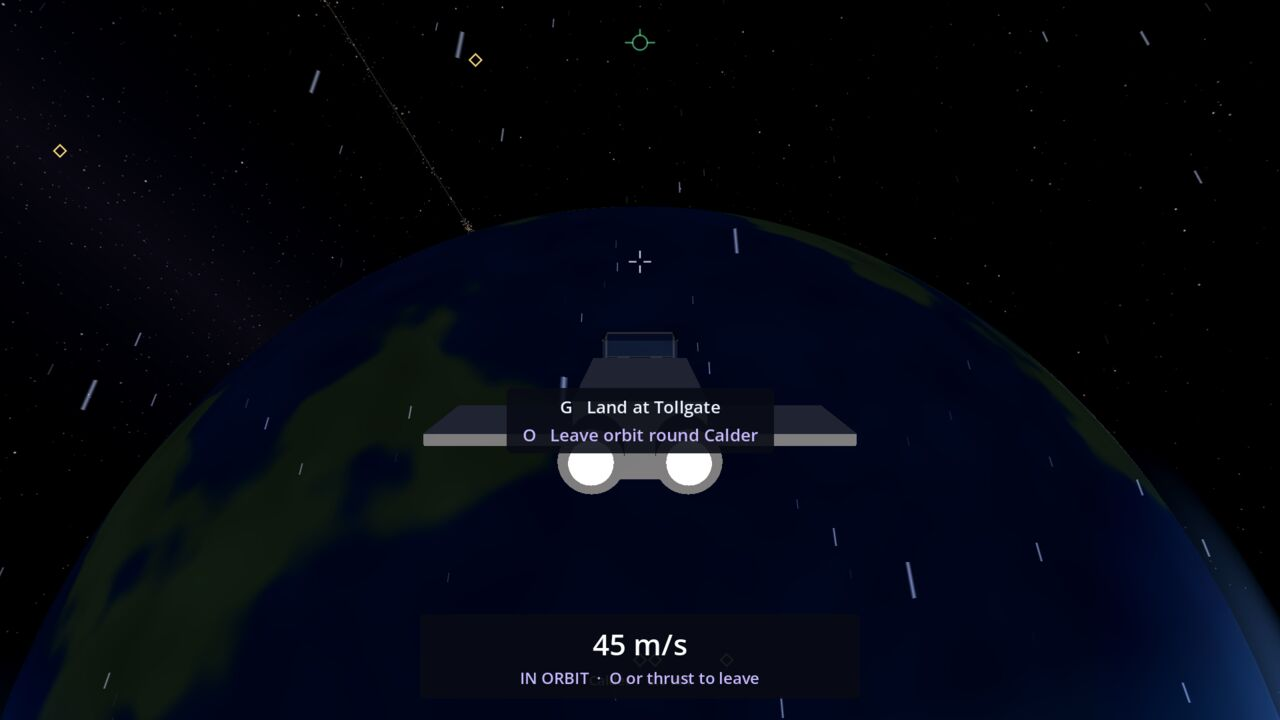
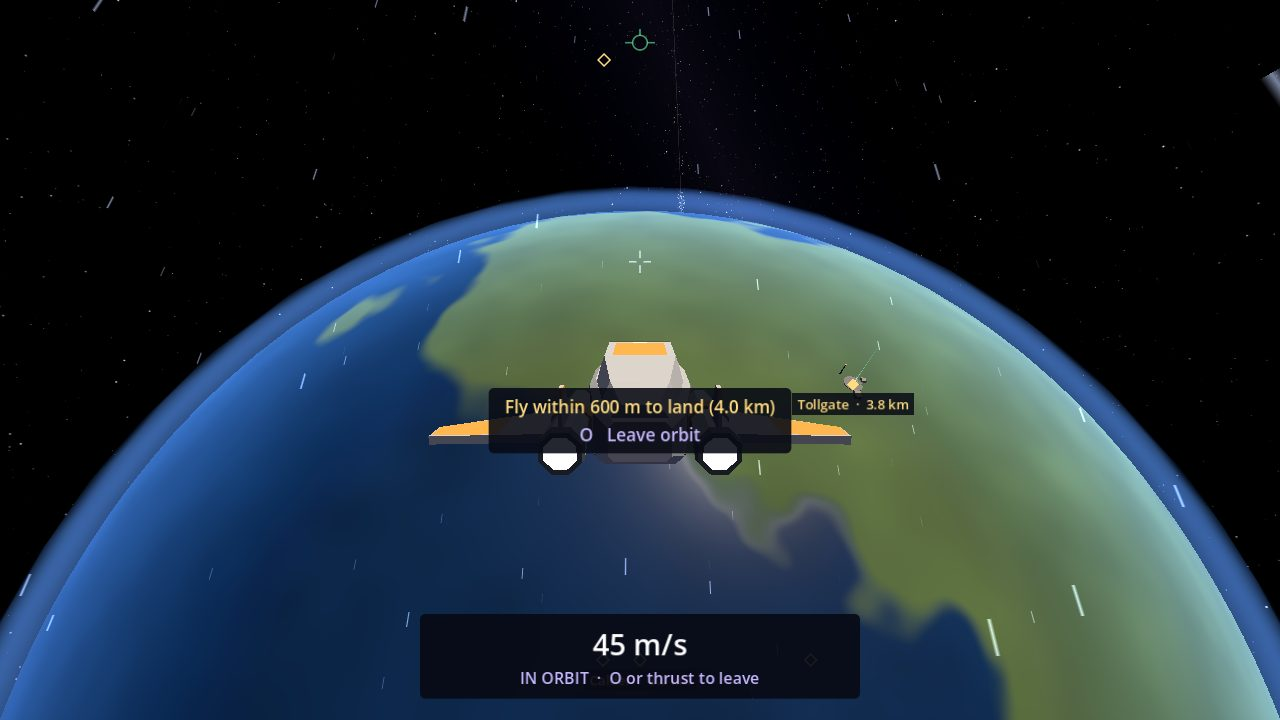
Tidy-up before the pause: new repo links, design doc ticks, fresh wiki pictures
- Every link to the old repository name (project-praesepe) now uses praesepe: design doc, README, RELEASING, wiki
  pages, the installer's publisher, support and update links, the wiki's Patch Notes links and a Blender script note.
- DESIGN.md's first playable list ticks the nine items already built.
- The Hauler's ship card (and two code comments) no longer say a greybox stands in for it.
- Fourteen wiki pictures retaken with the placeholder ship and cockpit and today's short prompts (several still showed
  the greybox, "G Land at Tollgate" from orbit and long cruise prompts); the unused landed-chase picture is gone.
- A changelog note for the two changes a player can see.

Claude-Session: https://claude.ai/code/session_01JjsDj2AAULPNj4PryiKDMn

diff --git a/tools/wiki.py b/tools/wiki.py
@@ -160,7 +160,7 @@ def patch_notes() -> str:
     parts = [
         "# Patch Notes",
         "What changed in each version of Project Praesepe, newest first. Downloads are on the "
-        "[Releases page](https://github.com/ggbillyjoe3526/project-praesepe/releases). "
+        "[Releases page](https://github.com/ggbillyjoe3526/praesepe/releases). "
         "What's planned next is on the [Roadmap](Roadmap).",
         "## Coming in the next update",
         "Already in the development build and on its way in the next download:",
@@ -180,7 +180,7 @@ def stamp() -> str:
     version = m.group(1) if m else "unknown version"
     log = subprocess.run(["git", "log", "-1", "--format=%h %cs"], cwd=ROOT, capture_output=True, text=True)
     commit, _, day = log.stdout.strip().partition(" ") if log.returncode == 0 else ("", "", "")
-    where = f" from commit [{commit}](https://github.com/ggbillyjoe3526/project-praesepe/commit/{commit}), {day}" if commit else ""
+    where = f" from commit [{commit}](https://github.com/ggbillyjoe3526/praesepe/commit/{commit}), {day}" if commit else ""
     return f"<sub>Describes the development build {version}{where}.</sub>"
 
 

diff --git a/tools/blender/export_ship.py b/tools/blender/export_ship.py
@@ -1,7 +1,7 @@
 """Exports a ship's "Exterior" and "Cockpit" collections from Blender as the glTF files the game loads.
 
 Run it inside Blender with the ship's .blend open, or from Python with Blender's `bpy` module:
-	export_ship.export("C:/path/to/project-praesepe/game/ship/models", "hauler")
+	export_ship.export("C:/path/to/praesepe/game/ship/models", "hauler")
 writes hauler_exterior.glb and hauler_cockpit.glb there. Only those two collections go out (never "Reference"),
 with modifiers applied, Y up and the nose along -Z as Godot expects, and no cameras or lights.
 Parts are joined into one mesh per material on the way out (named after the collection and the material, like Exterior_Glass), so the game draws each

diff --git a/DESIGN.md b/DESIGN.md
@@ -526,20 +526,20 @@ The goal of the first playable is to prove that flying, delivering and mining ar
 
 **In scope**
 
-- [ ] One planet with a base, one moon, one space station, one asteroid belt
-- [ ] One ship with a first-person cockpit
-- [ ] Newtonian flight with flight assist on/off and a velocity marker
-- [ ] Third-person chase camera while flying
-- [ ] Cruise drive between locations
-- [ ] Docking at the base and station
-- [ ] Seamless docking and landing: a prompt, then the ship flies itself in, with no transition or loading screen (the owner's call, 2026-10-25)
-- [ ] Parking in orbit round a planet or moon with an "Enter orbit" prompt (added by the owner, 2026-10-24)
+- [x] One planet with a base, one moon, one space station, one asteroid belt
+- [x] One ship with a first-person cockpit
+- [x] Newtonian flight with flight assist on/off and a velocity marker
+- [x] Third-person chase camera while flying
+- [x] Cruise drive between locations
+- [x] Docking at the base and station
+- [x] Seamless docking and landing: a prompt, then the ship flies itself in, with no transition or loading screen (the owner's call, 2026-10-25)
+- [x] Parking in orbit round a planet or moon with an "Enter orbit" prompt (added by the owner, 2026-10-24)
 - [ ] Contract board with two job types: delivery and asteroid mining
 - [ ] Ship mining laser for blasting asteroids
 - [ ] On-foot controller: walking into the base and mining on an asteroid's surface
 - [ ] Loan with payments at the base
 - [ ] Shop with 3–4 upgrades
-- [ ] Save and load
+- [x] Save and load
 
 **Out of scope for now:** the other two starter ships, combat, taxi, science, reputation, radio, random events, photo mode.
 
@@ -557,7 +557,7 @@ A few early decisions avoid costly rework later.
 
 ## Player wiki
 
-The GitHub wiki (<https://github.com/ggbillyjoe3526/project-praesepe/wiki>) documents the full game for players. It is
+The GitHub wiki (<https://github.com/ggbillyjoe3526/praesepe/wiki>) documents the full game for players. It is
 written for players, not developers, and kept current as the game changes.
 
 - **Home:** what the game is and what the current build lets you do.

diff --git a/README.md b/README.md
@@ -97,7 +97,7 @@ CI runs all five on every pull request (the wiki check in the Wiki workflow, whi
 | `test/unit/` | Unit tests. |
 | `tools/` | Test, changelog and wiki scripts; `blender/` builds and exports the ship models in Blender (its `README.md` says how). |
 | `addons/gut/` | The Gut test framework (tests only, never shipped). |
-| `docs/wiki/` | The player wiki, one page per file, published to the [GitHub wiki](https://github.com/ggbillyjoe3526/project-praesepe/wiki) on every merge to `main`. Its `README.md` has the conventions. |
+| `docs/wiki/` | The player wiki, one page per file, published to the [GitHub wiki](https://github.com/ggbillyjoe3526/praesepe/wiki) on every merge to `main`. Its `README.md` has the conventions. |
 | `changelog.d/` | One changelog note per pull request, gathered into `CHANGELOG.md` at release. |
 
 Saves (`savegame.json`, written on every docking and landing), settings (`settings.json`) and screenshots (`screenshots/`) go to the user folder `ProjectPraesepe` (on Windows, `%APPDATA%\ProjectPraesepe`).

diff --git a/docs/wiki/FAQ.md b/docs/wiki/FAQ.md
@@ -3,7 +3,7 @@
 ## Is there a download?
 
 Yes, for Windows (64-bit). The first one is **0.1 Dev 1**, an early development build. Each version is on the
-[Releases page](https://github.com/ggbillyjoe3526/project-praesepe/releases) as a Windows installer (`Windows-Setup.exe`, with a Start menu shortcut and an uninstaller) and
+[Releases page](https://github.com/ggbillyjoe3526/praesepe/releases) as a Windows installer (`Windows-Setup.exe`, with a Start menu shortcut and an uninstaller) and
 a portable zip to play without installing: unzip it anywhere and run `ProjectPraesepe.exe`. Installing a newer version
 updates the game in place and never touches your saved game. The [Patch Notes](Patch-Notes) say what's in each
 version.

diff --git a/RELEASING.md b/RELEASING.md
@@ -4,7 +4,7 @@ How a version of Project Praesepe reaches players. Only the owner decides to rel
 starts a release without the owner's explicit yes for that version.
 
 ## What a release gives players
-Each release on the [Releases page](https://github.com/ggbillyjoe3526/project-praesepe/releases) has:
+Each release on the [Releases page](https://github.com/ggbillyjoe3526/praesepe/releases) has:
 - `ProjectPraesepe-v0.1-dev.1-Windows-Setup.exe`: the installer. It installs for the current player only (no
   administrator prompt), adds a Start menu shortcut and optionally a desktop one, and has an uninstaller. Installing a
   newer version over an older one updates it in place.

diff --git a/docs/wiki/Home.md b/docs/wiki/Home.md
@@ -9,7 +9,7 @@ next job.
 
 ## Where the game is now
 
-The game is in **early development**. The first download, **0.1 Dev 1**, is on the [Releases page](https://github.com/ggbillyjoe3526/project-praesepe/releases) for
+The game is in **early development**. The first download, **0.1 Dev 1**, is on the [Releases page](https://github.com/ggbillyjoe3526/praesepe/releases) for
 Windows (see [Getting Started](Getting-Started)). What you can do in the current build:
 
 - Start a new game by choosing your ship (the Hauler, for now) and fly it with weighty, Newtonian flight and flight

diff --git a/docs/wiki/README.md b/docs/wiki/README.md
@@ -1,7 +1,7 @@
 # The player wiki
 
 This folder is the source of the game's GitHub wiki
-(<https://github.com/ggbillyjoe3526/project-praesepe/wiki>). Each `.md` file is one page, named like
+(<https://github.com/ggbillyjoe3526/praesepe/wiki>). Each `.md` file is one page, named like
 `Docking-and-Landing.md` (dashes become spaces in the page title). `Home.md` is the front page, `_Sidebar.md` the menu
 on every page and `_Footer.md` the line under it. This README is never published. The layout follows `DESIGN.md`,
 "Player wiki". Ported from katanashotgun's `docs/wiki/`.

diff --git a/docs/wiki/Getting-Started.md b/docs/wiki/Getting-Started.md
@@ -2,7 +2,7 @@
 
 ## Installing
 
-Open the [Releases page](https://github.com/ggbillyjoe3526/project-praesepe/releases), download the
+Open the [Releases page](https://github.com/ggbillyjoe3526/praesepe/releases), download the
 `Windows-Setup.exe` from the newest version and run it. Windows may say "Windows protected your PC" because the game
 isn't code-signed yet: click **More info**, then **Run anyway** ([FAQ](FAQ#windows-says-windows-protected-your-pc)).
 The installer adds Project Praesepe to the Start menu. To play without installing, download the

diff --git a/changelog.d/tidy-up-before-pause.md b/changelog.d/tidy-up-before-pause.md
@@ -1,0 +1,4 @@
+### Small fixes
+- The Hauler's card on "Choose your ship" no longer says a greybox stands in for it: it flies with its placeholder
+  model.
+- The installer's website, support and update links point at the game's repository under its new name.
